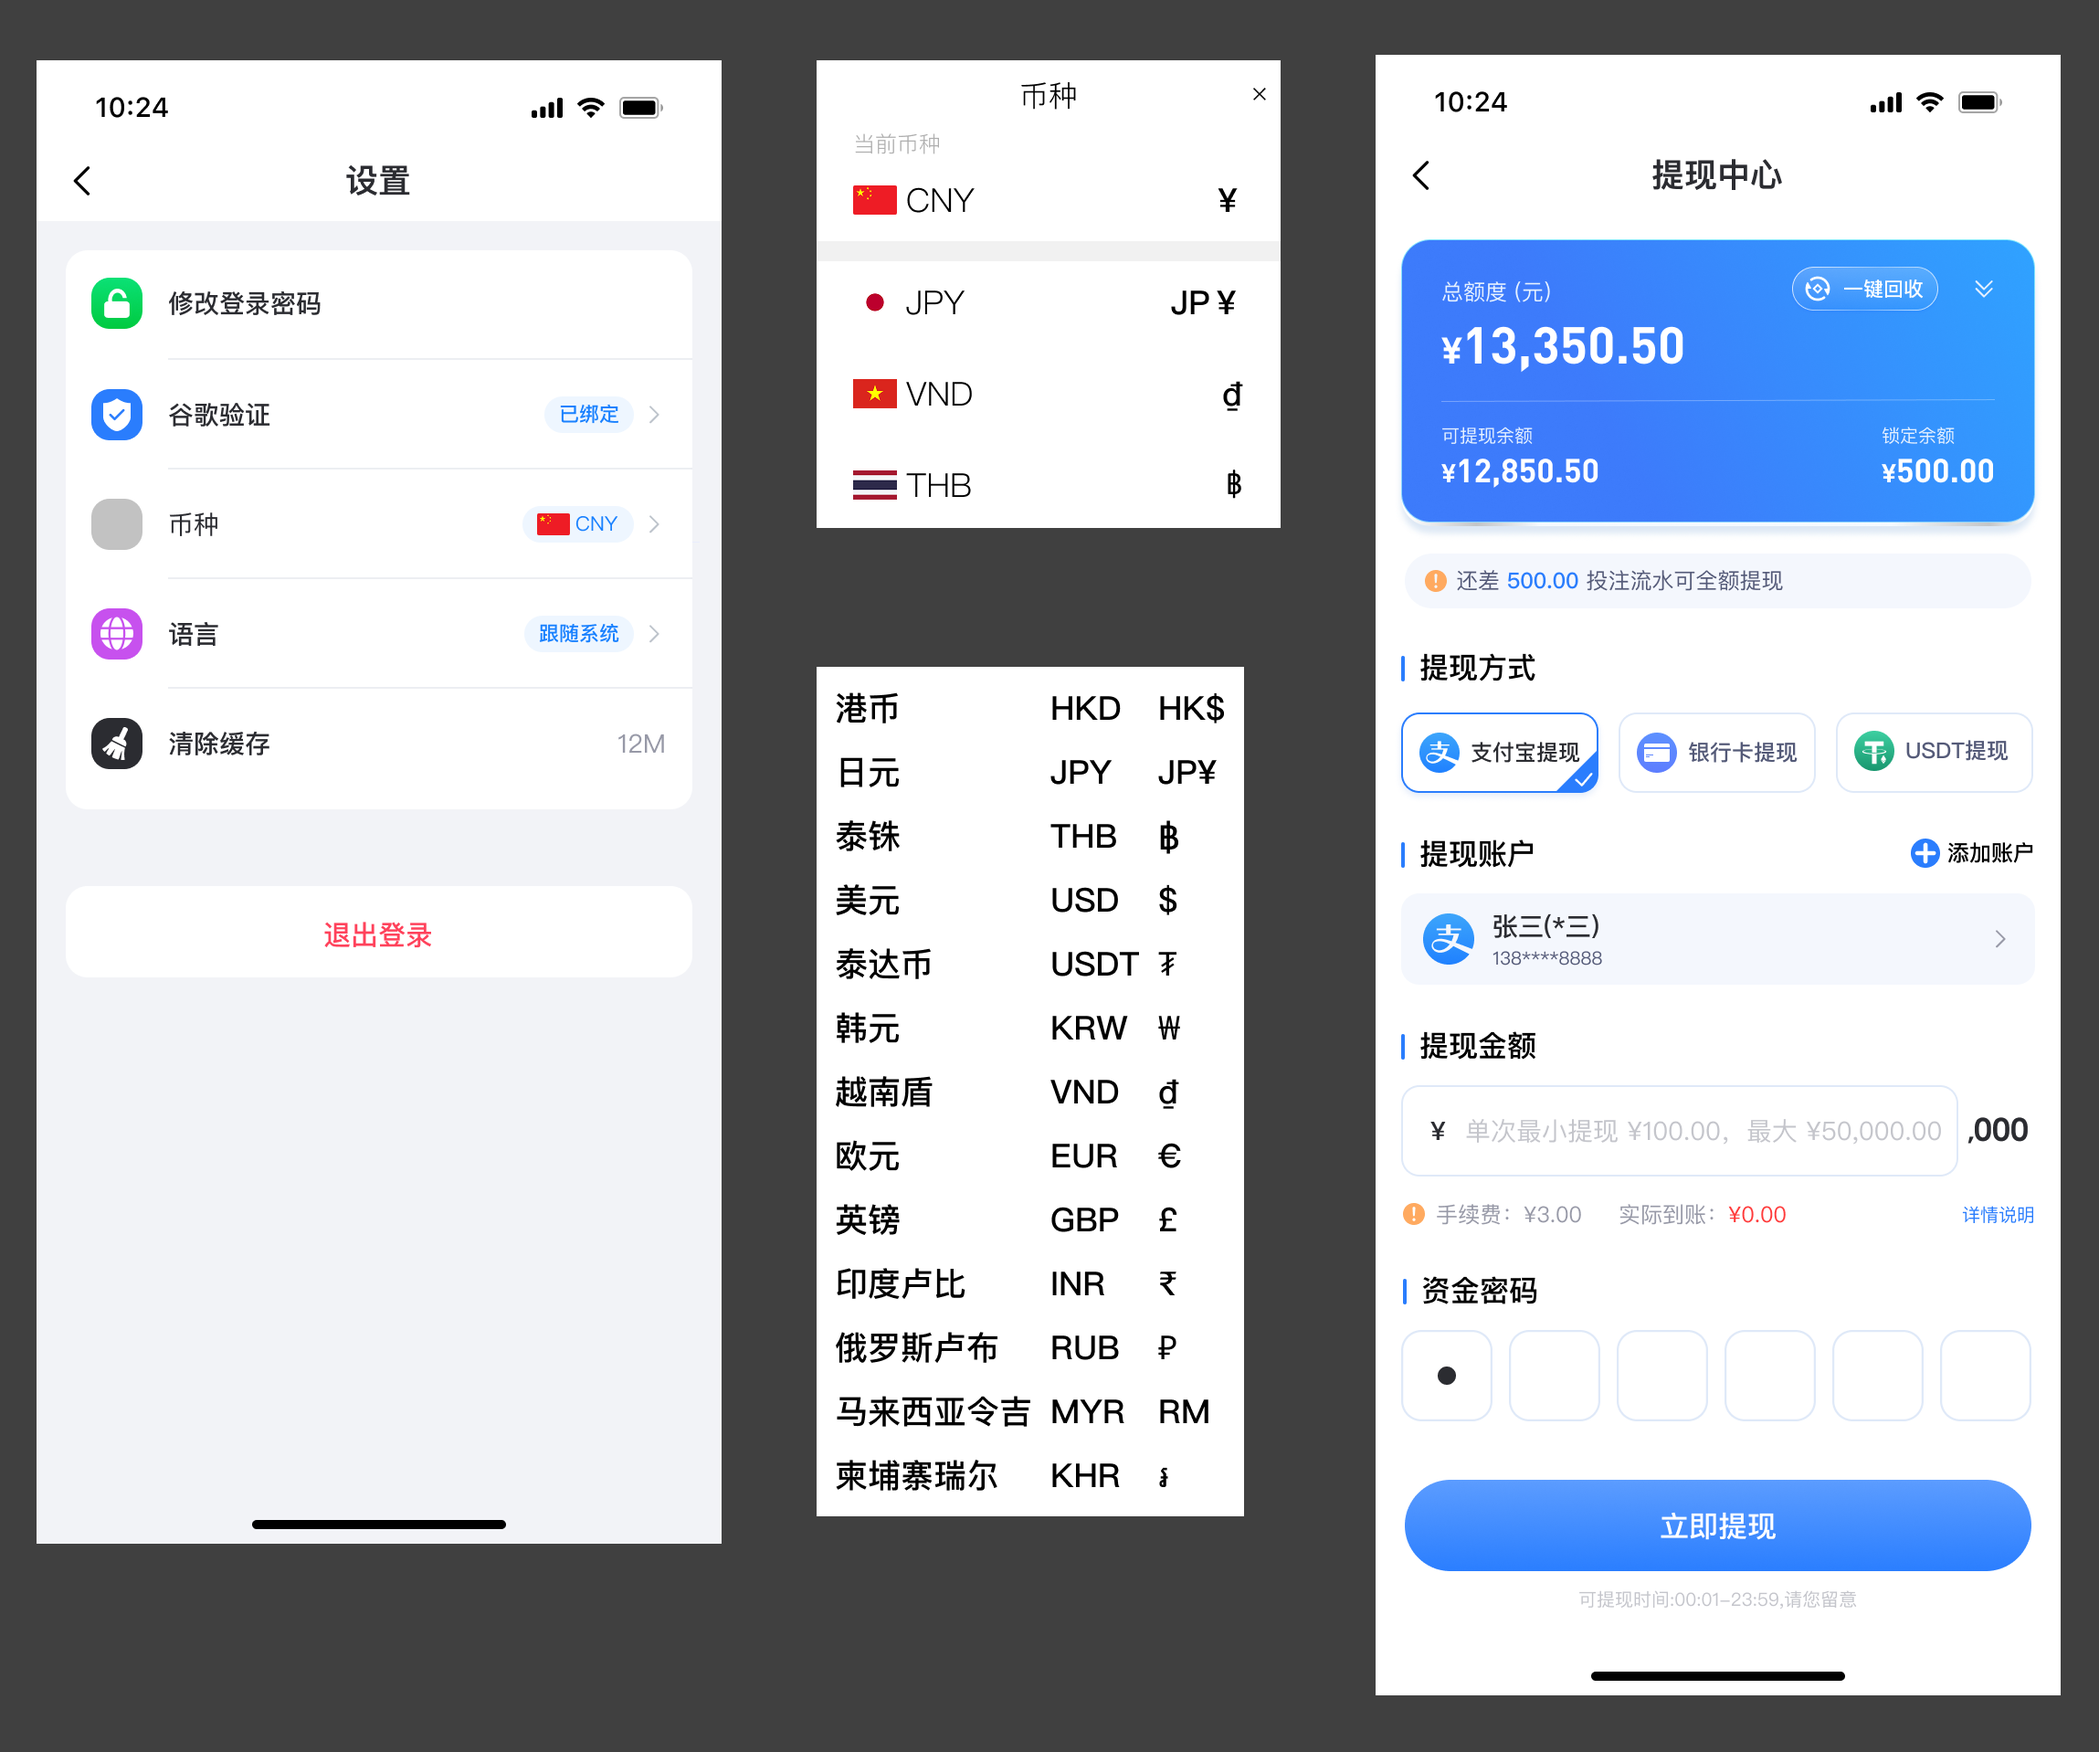
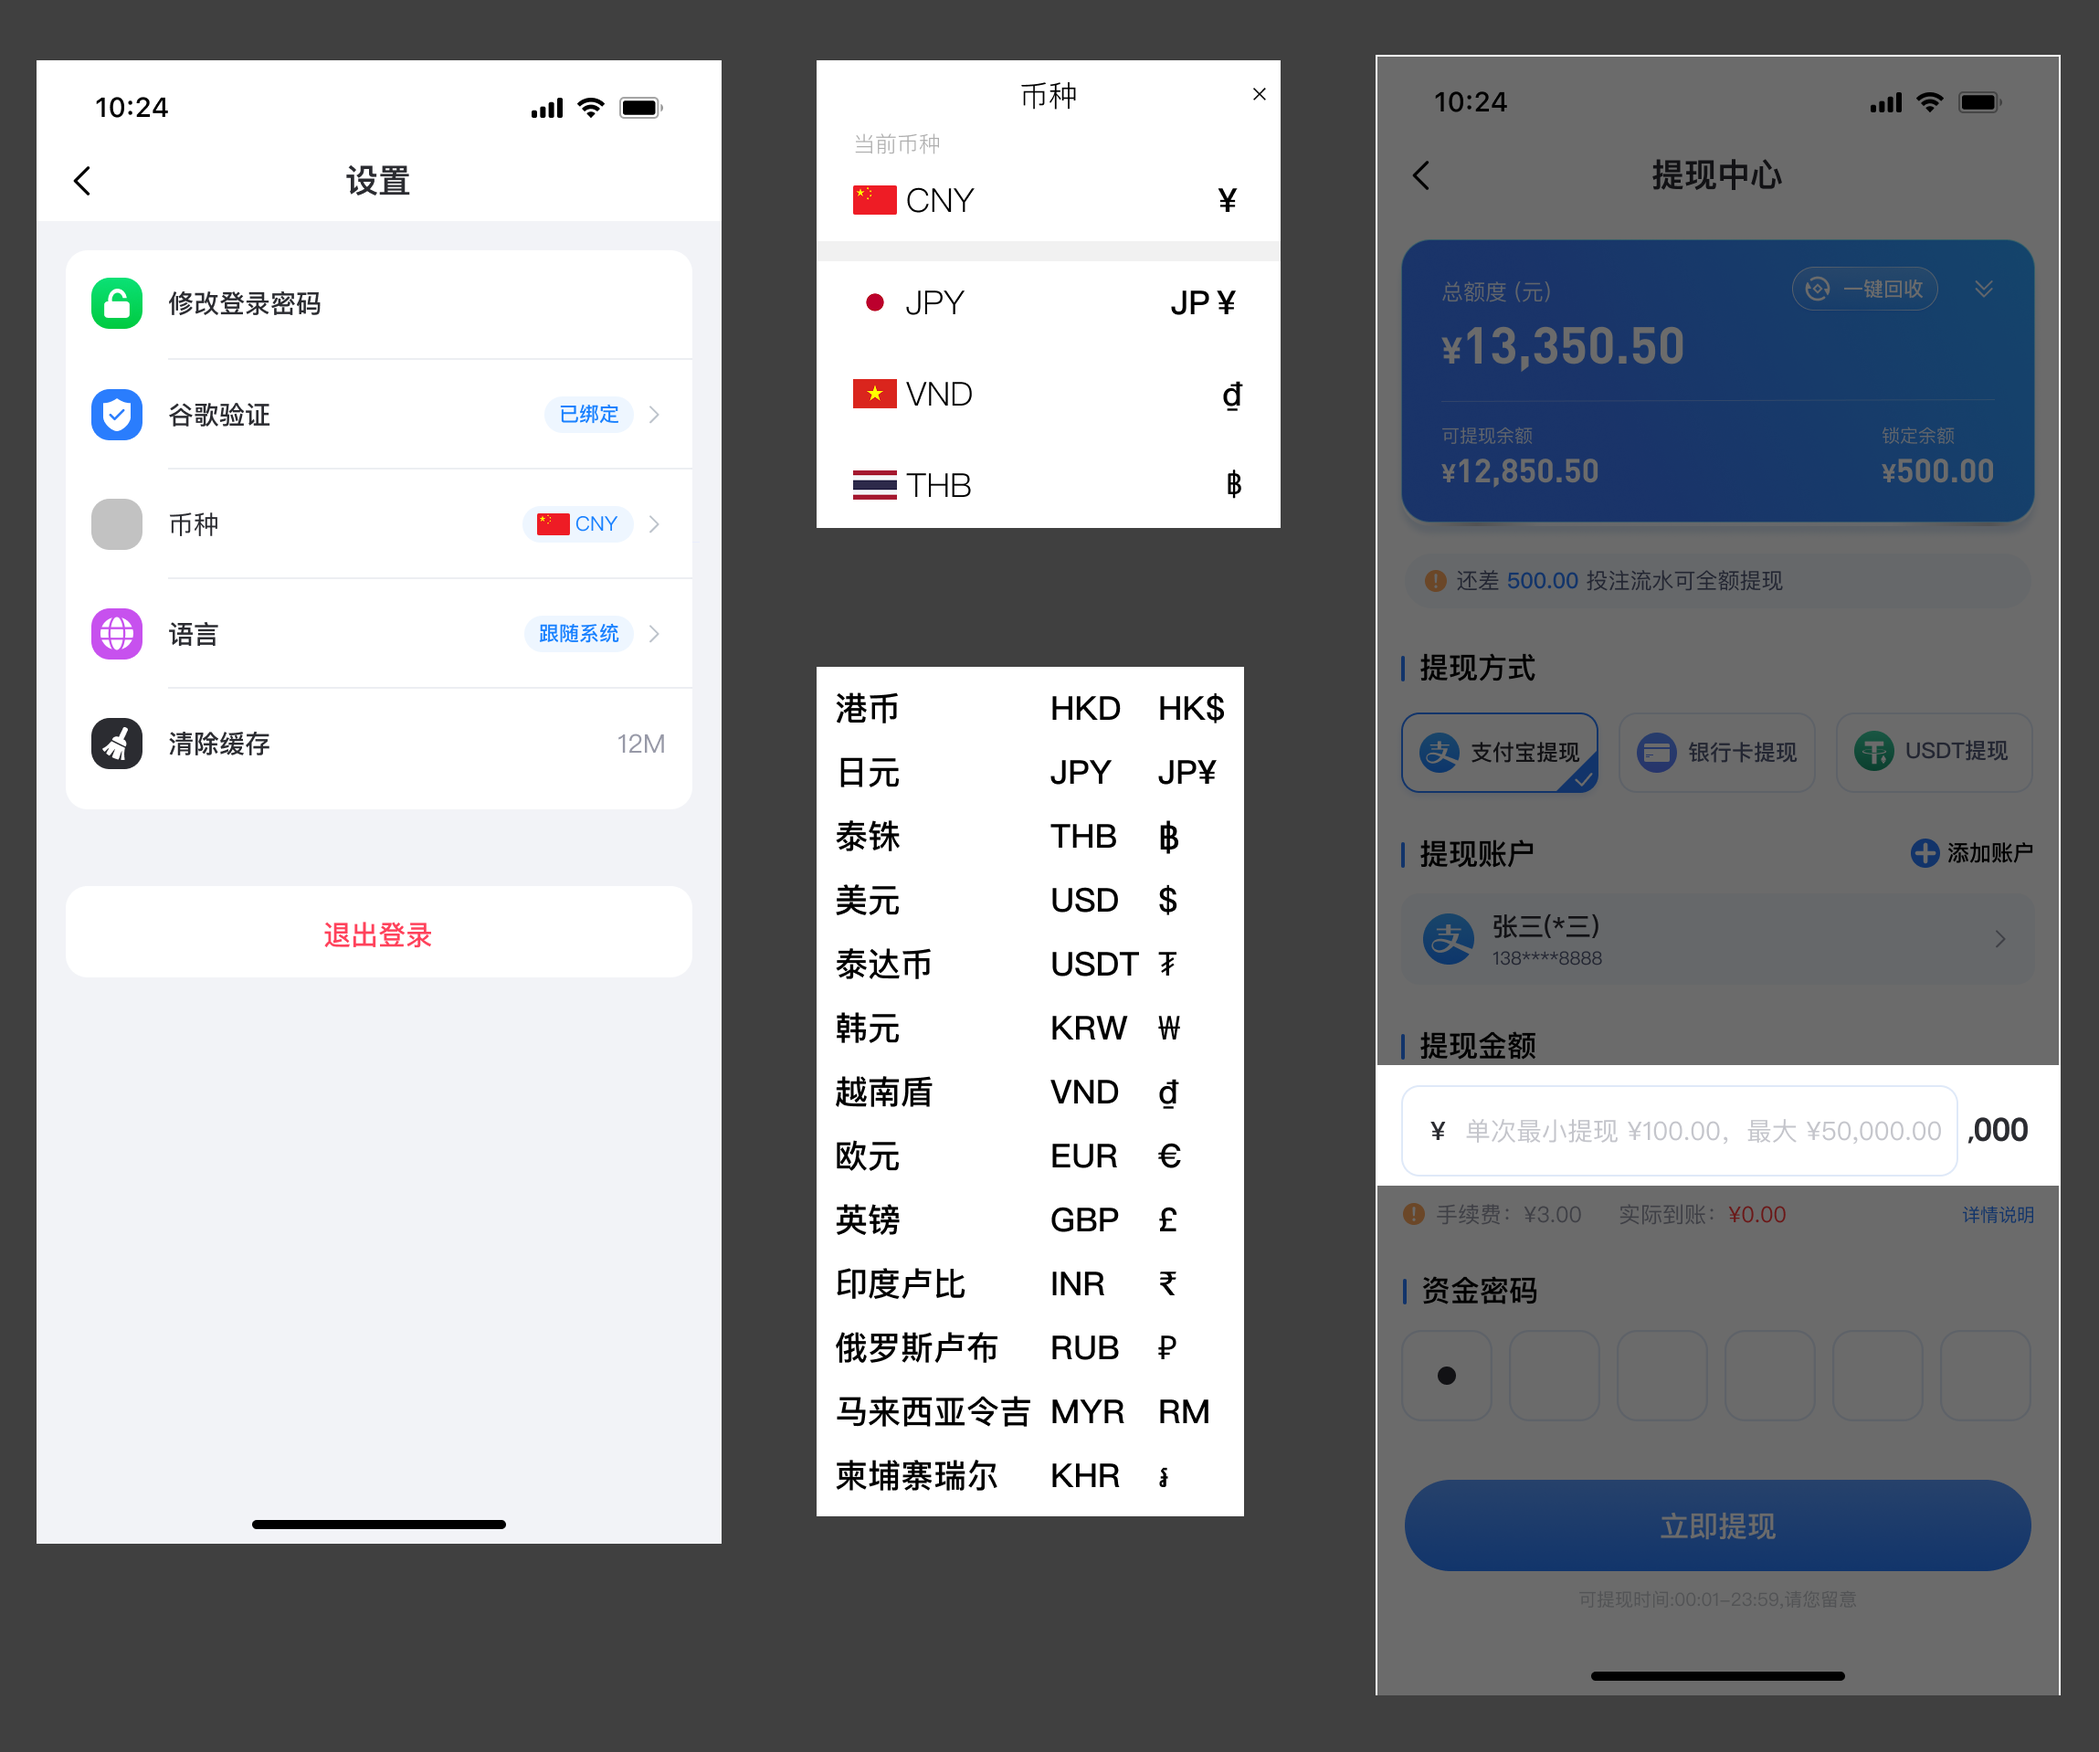
Update #1251 member currency prototype image

Changed region(s): [[0.6488, 0.0308, 0.9887, 0.6152], [0.6488, 0.6767, 0.9887, 0.9844]]

diff --git a/exchange-1251.js b/exchange-1251.js
@@ -129,7 +129,7 @@
 
   function render(page, api) {
     helpers = api;
-    if (page.key === MEMBER_PAGE) return '<div class="fx1251-member-image-stage"><img src="./assets/1251/member-currency-settings.png" alt="会员端币种设置页面原型" /></div>';
+    if (page.key === MEMBER_PAGE) return '<div class="fx1251-member-image-stage"><img src="./assets/1251/member-currency-settings.png?build=member-currency-settings-20261022-02" alt="会员端币种设置页面原型" /></div>';
     store = readStore();
     const rows = store.rows.filter((row) => row.code !== "CNY" && `${row.name} ${row.code} ${row.symbol}`.toLowerCase().includes(query.toLowerCase()) && (!statusFilter || row.enabled === (statusFilter === "enabled")));
     const cells = rows.map((row) => `<tr>

diff --git a/index.html b/index.html
@@ -21,7 +21,7 @@
     <script src="./commission-911.js?build=911-commission-03"></script>
     <script src="./finance-971.js?build=971-date-range-01"></script>
     <script src="./withdraw-1131.js?build=1131-withdraw-12"></script>
-    <script src="./exchange-1251.js?build=1251-cny-flag-20261022-01"></script>
+    <script src="./exchange-1251.js?build=1251-member-image-20261022-02"></script>
     <script src="./site-opening-1191.js?build=1191-active-currencies-20261020-03"></script>
     <script src="./bonus-510.js?build=510-totals-scroll-01"></script>
     <script src="./agent-daily-1027.js?build=1027-team-agent-01"></script>
